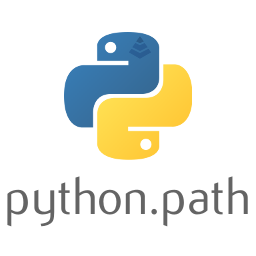
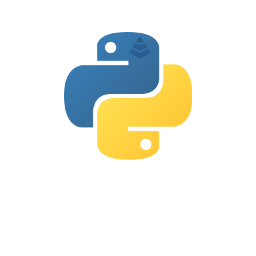
avoid generating import statements when selecting text which contains " "

Changed region(s): [[0.0, 0.6875, 0.9688, 0.9062]]

diff --git a/extension.js b/extension.js
@@ -38,7 +38,7 @@ function copyPythonPath(uri) {
     const pythonPath = getPythonPath(filePath);
     const selections = vscode.window.activeTextEditor.selections
       .map(s => vscode.window.activeTextEditor.document.getText(s))
-      .filter(s => !!s && !s.includes("\n"));
+      .filter(s => !!s && !s.includes("\n") && !s.trim().includes(" "));
     if (pythonPath && selections.length > 0) {
       const importStatement = generateImportStatement(pythonPath, selections);
       clipboardy.writeSync(importStatement);
@@ -55,10 +55,10 @@ function generateImportStatement(pythonPath, selections) {
   if (selections.length == 0) {
     return `import ${pythonPath}`;
   } else if (selections.length == 1) {
-    const selection = selections[0];
+    const selection = selections[0].trim();
     return `from ${pythonPath} import ${selection}`;
   }
-  const selection = selections.map(s => `\t${s},`).join("\n");
+  const selection = selections.map(s => `\t${s.trim()},`).join("\n");
   return `from ${pythonPath} import (\n${selection}\n)`;
 }
 

diff --git a/CHANGELOG.md b/CHANGELOG.md
@@ -1,3 +1,12 @@
+<a name="0.0.9"></a>
+
+## 0.0.9 (2019-02-20)
+
+### Bug Fixes
+
+- **syntax:** avoid generating import statements when selecting text which is not a valid variable name
+- **logo:** white text
+
 <a name="0.0.8"></a>
 
 ## 0.0.8 (2019-02-19)
